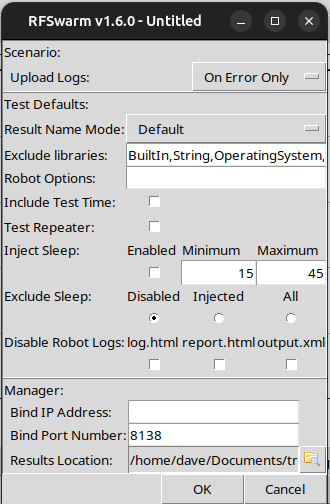
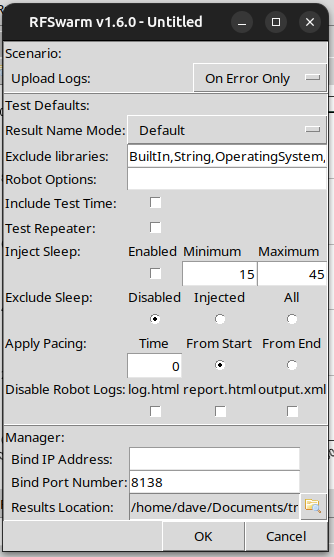
Documentation for Issue #402

diff --git a/Doc/rfswarm_manager.md b/Doc/rfswarm_manager.md
@@ -137,6 +137,9 @@ By default this setting is blank and in most cases wouldn't be used, it allows y
 `robot -h`
 On any machine that has Robot Framework installed
 
+###### Include Test Time
+This setting when enabled will report the total time taken by the test to complete one iteration (not including setups and teardowns). this is useful if you need to know how long the whole business process takes, whether for reporting or for planning your pacing settings.
+
 ###### Test Repeater
 This setting when enabled will cause Robot Framework to repeat the selected test case in the same test suite continually until either a the test fails or the scenario ends.
 
@@ -154,7 +157,7 @@ If you want the amount of sleep time to always be the same, set the minimum and 
 Enabling this setting here will enable it for all test groups
 
 ###### Exclude Sleep
-This setting allows you to controll if and when sleep time is included in the result time.
+This setting allows you to control if and when sleep time is included in the result time.
 why this is needed:
 - The Inject Sleep sleep option above can impact the result time of a keyword if the sleep is injected after the child keywords
 - you may include manual sleep time in your keywords while waiting for an external even to happen but don't want this sleep included in the result time
@@ -167,6 +170,16 @@ There are 3 settings for Exclude Sleep
 | All	   | This calculates the total sleep time from the sleeps in the current keyword and all child keywords and substracts this from the elapsed time of the keyword |
 
 Enabling this setting here will enable it for all test groups
+
+###### Apply Pacing
+This setting allows you to control the number of times per hour a robot will perfrom a test by adding think time after the test before starting the next iteration of the test.
+
+How these settings apply:
+| setting  | impact on test |
+| --- 	   | ---			|
+| Time     | If the value is 0 or less pacing will be disabled (not applied), this is the default setting and the same as previous versions of RFSwarm. If the value is greater than 0, see From Start and From End |
+| From Start | If the time is greater than 0, The time the test took will be subtracted from this time and if the resulting time is greater than 0 this resulting time in seconds will be added as a sleep to the end of the test. e.g. if you set the time to 60 seconds and the test takes 13 seconds then 47 seconds of sleep time will be added, if the next iteration of the test for the same robot takes 8 seconds then 52 seconds will be added for the second itertaion, and so on, each robot will do this evaluation themselves for each iteration so they always take no less than the time you set. if you set the time to 60 seconds and the test takes 61 seconds, no sleep time will be added |
+| From End | If the time is greater than 0, This number of seconds will be added as sleep time to the test no matter how long the test took. This is a fixed amount of sleep added to the end of the test. |
 
 ###### Disable Robot Logs
 These settings when enabled will disable the generation of the selected files on the agent machine by instructing robot framework not to generate these files.
@@ -231,6 +244,9 @@ By default this setting is blank and in most cases wouldn't be used, it allows y
 `robot -h`
 On any machine that has Robot Framework installed
 
+###### Include Test Time - Test Group
+This setting when enabled will report the total time taken by the test to complete one iteration (not including setups and teardowns). this is useful if you need to know how long the whole business process takes, whether for reporting or for planning your pacing settings.
+
 ##### Test Repeater - Test Group
 This setting when enabled will cause Robot Framework to repeat the selected test case in the same test suite continually until either a the test fails or the scenario ends.
 
@@ -248,7 +264,7 @@ If you want the amount of sleep time to always be the same, set the minimum and 
 Enabling/disabling this setting here will enable it for this test group
 
 ###### Exclude Sleep - Test Group
-This setting allows you to controll if and when sleep time is included in the result time.
+This setting allows you to control if and when sleep time is included in the result time.
 why this is needed:
 - The Inject Sleep sleep option above can impact the result time of a keyword if the sleep is injected after the child keywords
 - you may include manual sleep time in your keywords while waiting for an external even to happen but don't want this sleep included in the result time
@@ -261,6 +277,16 @@ There are 3 settings for Exclude Sleep
 | All	   | This calculates the total sleep time from the sleeps in the current keyword and all child keywords and substracts this from the elapsed time of the keyword |
 
 Enabling/disabling this setting here will enable it for this test group
+
+###### Apply Pacing - Test Group
+This setting allows you to control the number of times per hour a robot will perfrom a test by adding think time after the test before starting the next iteration of the test.
+
+How these settings apply:
+| setting  | impact on test |
+| --- 	   | ---			|
+| Time     | If the value is 0 or less pacing will be disabled (not applied), this is the default setting and the same as previous versions of RFSwarm. If the value is greater than 0, see From Start and From End |
+| From Start | If the time is greater than 0, The time the test took will be subtracted from this time and if the resulting time is greater than 0 this resulting time in seconds will be added as a sleep to the end of the test. e.g. if you set the time to 60 seconds and the test takes 13 seconds then 47 seconds of sleep time will be added, if the next iteration of the test for the same robot takes 8 seconds then 52 seconds will be added for the second itertaion, and so on, each robot will do this evaluation themselves for each iteration so they always take no less than the time you set. if you set the time to 60 seconds and the test takes 61 seconds, no sleep time will be added |
+| From End | If the time is greater than 0, This number of seconds will be added as sleep time to the test no matter how long the test took. This is a fixed amount of sleep added to the end of the test. |
 
 ###### Disable Robot Logs - Test Group
 These settings when enabled will disable the generation of the selected files on the agent machine by instructing robot framework not to generate these files.
